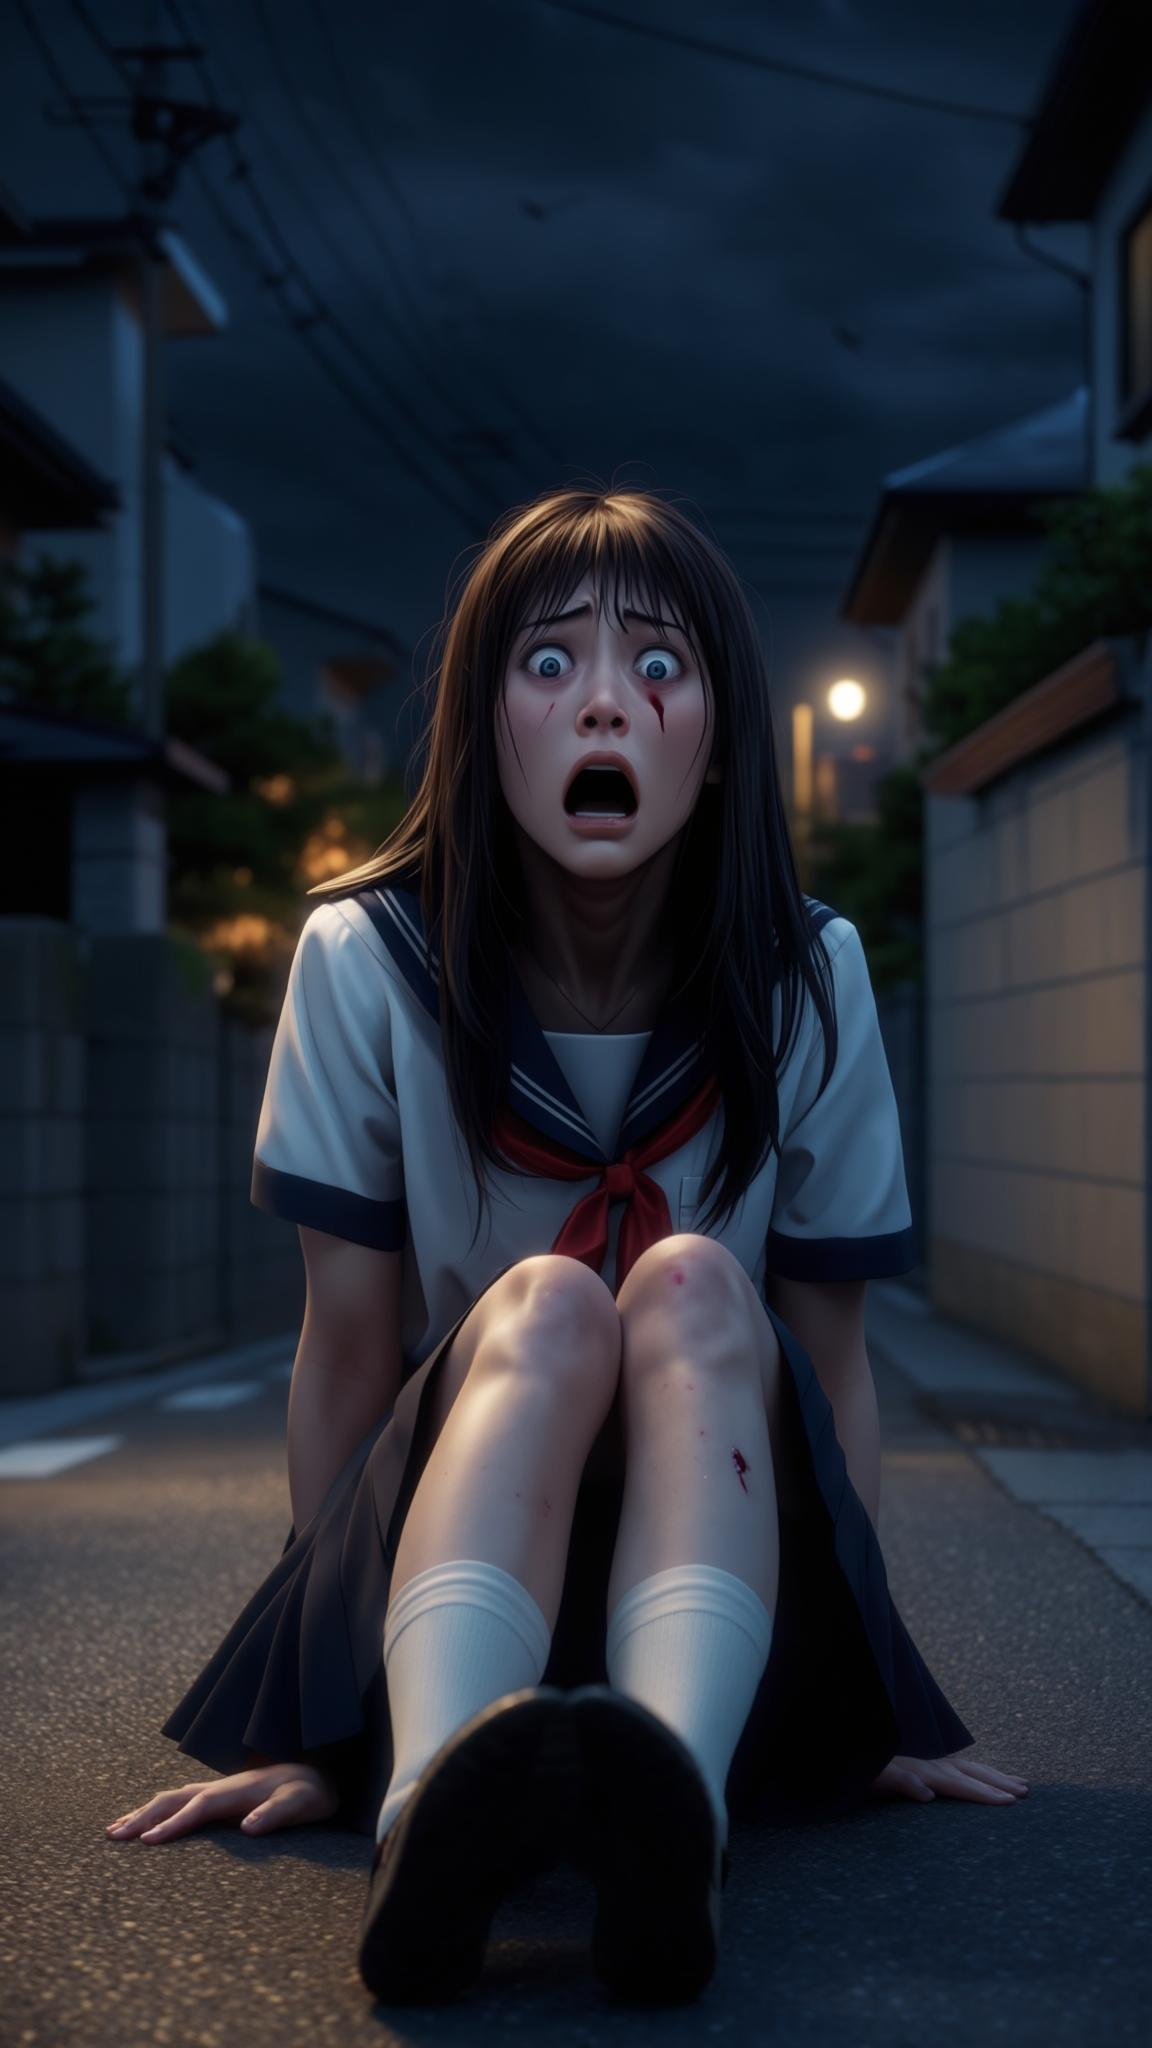
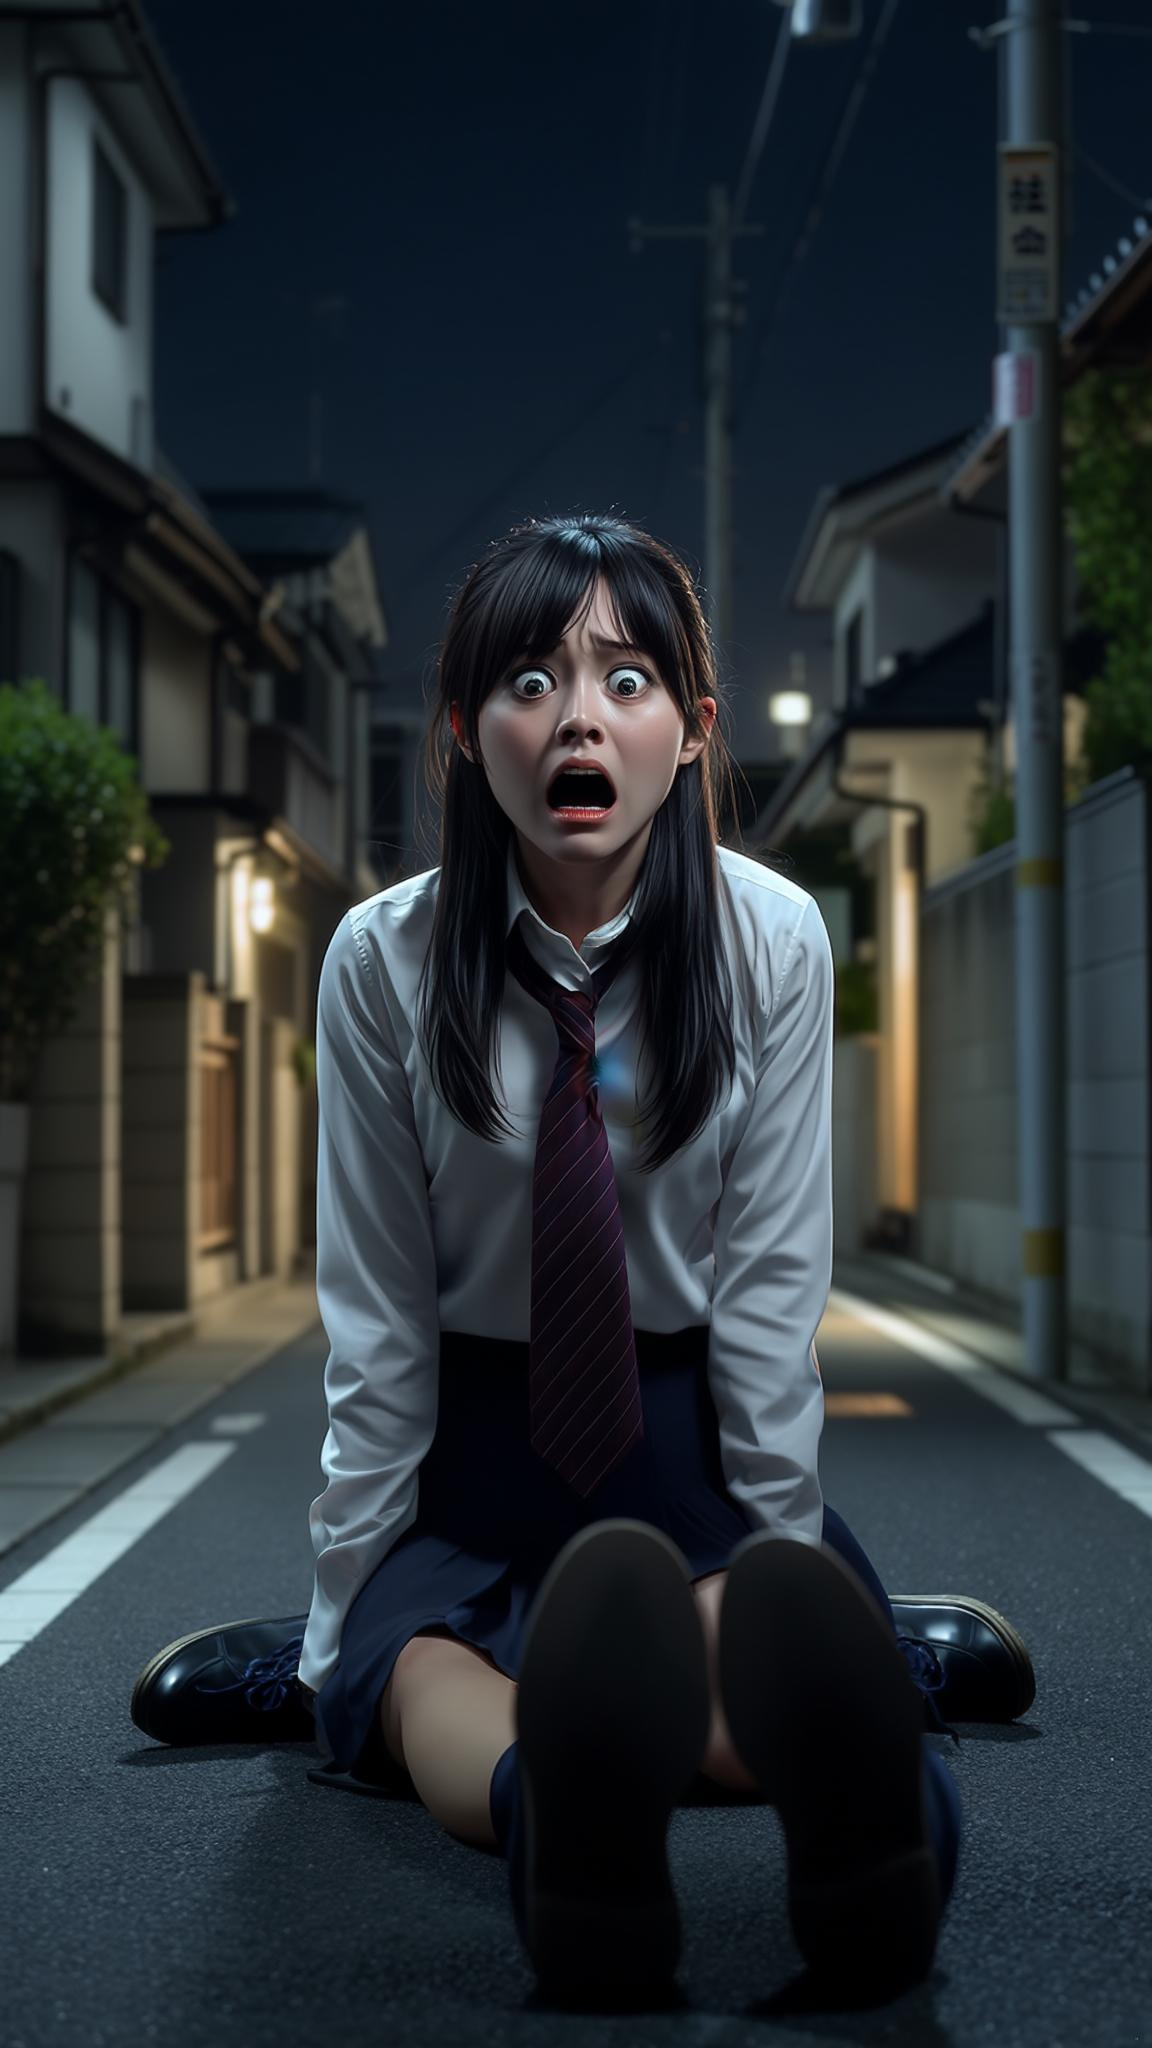
Add character images as reference for AI scene generation
Modify image generation to use character image URLs with the Luma Photon API, enabling character consistency in generated scenes.

Replit-Commit-Author: Agent
Replit-Commit-Session-Id: 2b0de715-0095-4398-8ebe-b4f38cbe86b1
Replit-Commit-Checkpoint-Type: full_checkpoint
Replit-Commit-Event-Id: 7a98ab9e-e3ab-4ad1-99af-4aea6809fadc
Replit-Commit-Screenshot-Url: https://storage.googleapis.com/screenshot-production-us-central1/ebd59bd0-3924-4315-bd05-0162a425acdb/2b0de715-0095-4398-8ebe-b4f38cbe86b1/nktze0z
Replit-Helium-Checkpoint-Created: true

diff --git a/app/services/video/scene_generator.py b/app/services/video/scene_generator.py
@@ -54,21 +54,24 @@ def _generate_scene_image(prompt: str, drama_id: int, scene_number: int) -> str:
     return None
 
 
-def _generate_scene_specific_image(scene_description: str, drama_id: int, scene_number: int, progress_callback=None) -> str:
+def _generate_scene_specific_image(scene_description: str, drama_id: int, scene_number: int, progress_callback=None, character_image_urls: list = None) -> str:
     if progress_callback is None:
         progress_callback = _noop
 
     output_path = os.path.join(SCENE_IMAGES_DIR, f"drama_{drama_id}_scene_{scene_number}_ai.png")
 
+    char_ref_url = character_image_urls[0] if character_image_urls else None
+
     if is_luma_available():
-        progress_callback(5, f"シーン{scene_number}: シーン画像生成中 (Luma Photon)...")
+        ref_label = " (キャラ参照あり)" if char_ref_url else ""
+        progress_callback(5, f"シーン{scene_number}: シーン画像生成中 (Luma Photon{ref_label})...")
         img_prompt = (
             f"{scene_description}, photorealistic, cinematic lighting, "
             "dramatic atmosphere, beautiful Japanese actors, "
             "high quality film still, vertical composition 9:16"
         )
-        if generate_image_luma(img_prompt, output_path, aspect_ratio="9:16"):
-            logger.info(f"Scene {scene_number} specific image via Luma Photon: {output_path}")
+        if generate_image_luma(img_prompt, output_path, aspect_ratio="9:16", character_image_url=char_ref_url):
+            logger.info(f"Scene {scene_number} specific image via Luma Photon (ref={bool(char_ref_url)}): {output_path}")
             return output_path
         logger.warning(f"Luma Photon scene image failed for scene {scene_number}")
 

diff --git a/app/api/routes.py b/app/api/routes.py
@@ -1297,6 +1297,18 @@ async def api_production_scene_image(request: Request, drama_id: int, scene_num:
             if char_descs:
                 image_prompt = f"{image_prompt}。登場人物: {', '.join(char_descs)}"
 
+    char_image_urls = []
+    base_url = str(request.base_url).rstrip("/")
+    for ch in scene_characters:
+        img = ch.get("image_face") or ch.get("image_bust") or ch.get("image_path") or ""
+        if img:
+            if img.startswith("/static/"):
+                char_image_urls.append(f"{base_url}{img}")
+            elif img.startswith("http"):
+                char_image_urls.append(img)
+            else:
+                char_image_urls.append(f"{base_url}/static/{img}")
+
     production_tasks[task_key] = {"status": "running", "error": ""}
 
     def run_image_gen():
@@ -1304,7 +1316,8 @@ async def api_production_scene_image(request: Request, drama_id: int, scene_num:
             from app.services.video.scene_generator import _generate_scene_specific_image
             result = _generate_scene_specific_image(
                 image_prompt,
-                drama_id, scene_num
+                drama_id, scene_num,
+                character_image_urls=char_image_urls if char_image_urls else None
             )
             if result:
                 production_tasks[task_key] = {"status": "done", "error": ""}

diff --git a/app/services/video/luma_service.py b/app/services/video/luma_service.py
@@ -62,7 +62,7 @@ def _download_asset(url: str, output_path: str) -> bool:
     return False
 
 
-def generate_image_luma(prompt: str, output_path: str, aspect_ratio: str = "9:16") -> bool:
+def generate_image_luma(prompt: str, output_path: str, aspect_ratio: str = "9:16", character_image_url: str = None) -> bool:
     api_key = _get_api_key()
     if not api_key:
         return False
@@ -73,6 +73,8 @@ def generate_image_luma(prompt: str, output_path: str, aspect_ratio: str = "9:16
             "aspect_ratio": aspect_ratio,
             "model": "photon-1",
         }
+        if character_image_url:
+            body["image_ref"] = [{"url": character_image_url, "weight": 0.85}]
         with httpx.Client(timeout=60) as client:
             resp = client.post(
                 f"{LUMA_API_BASE}/generations/image",
